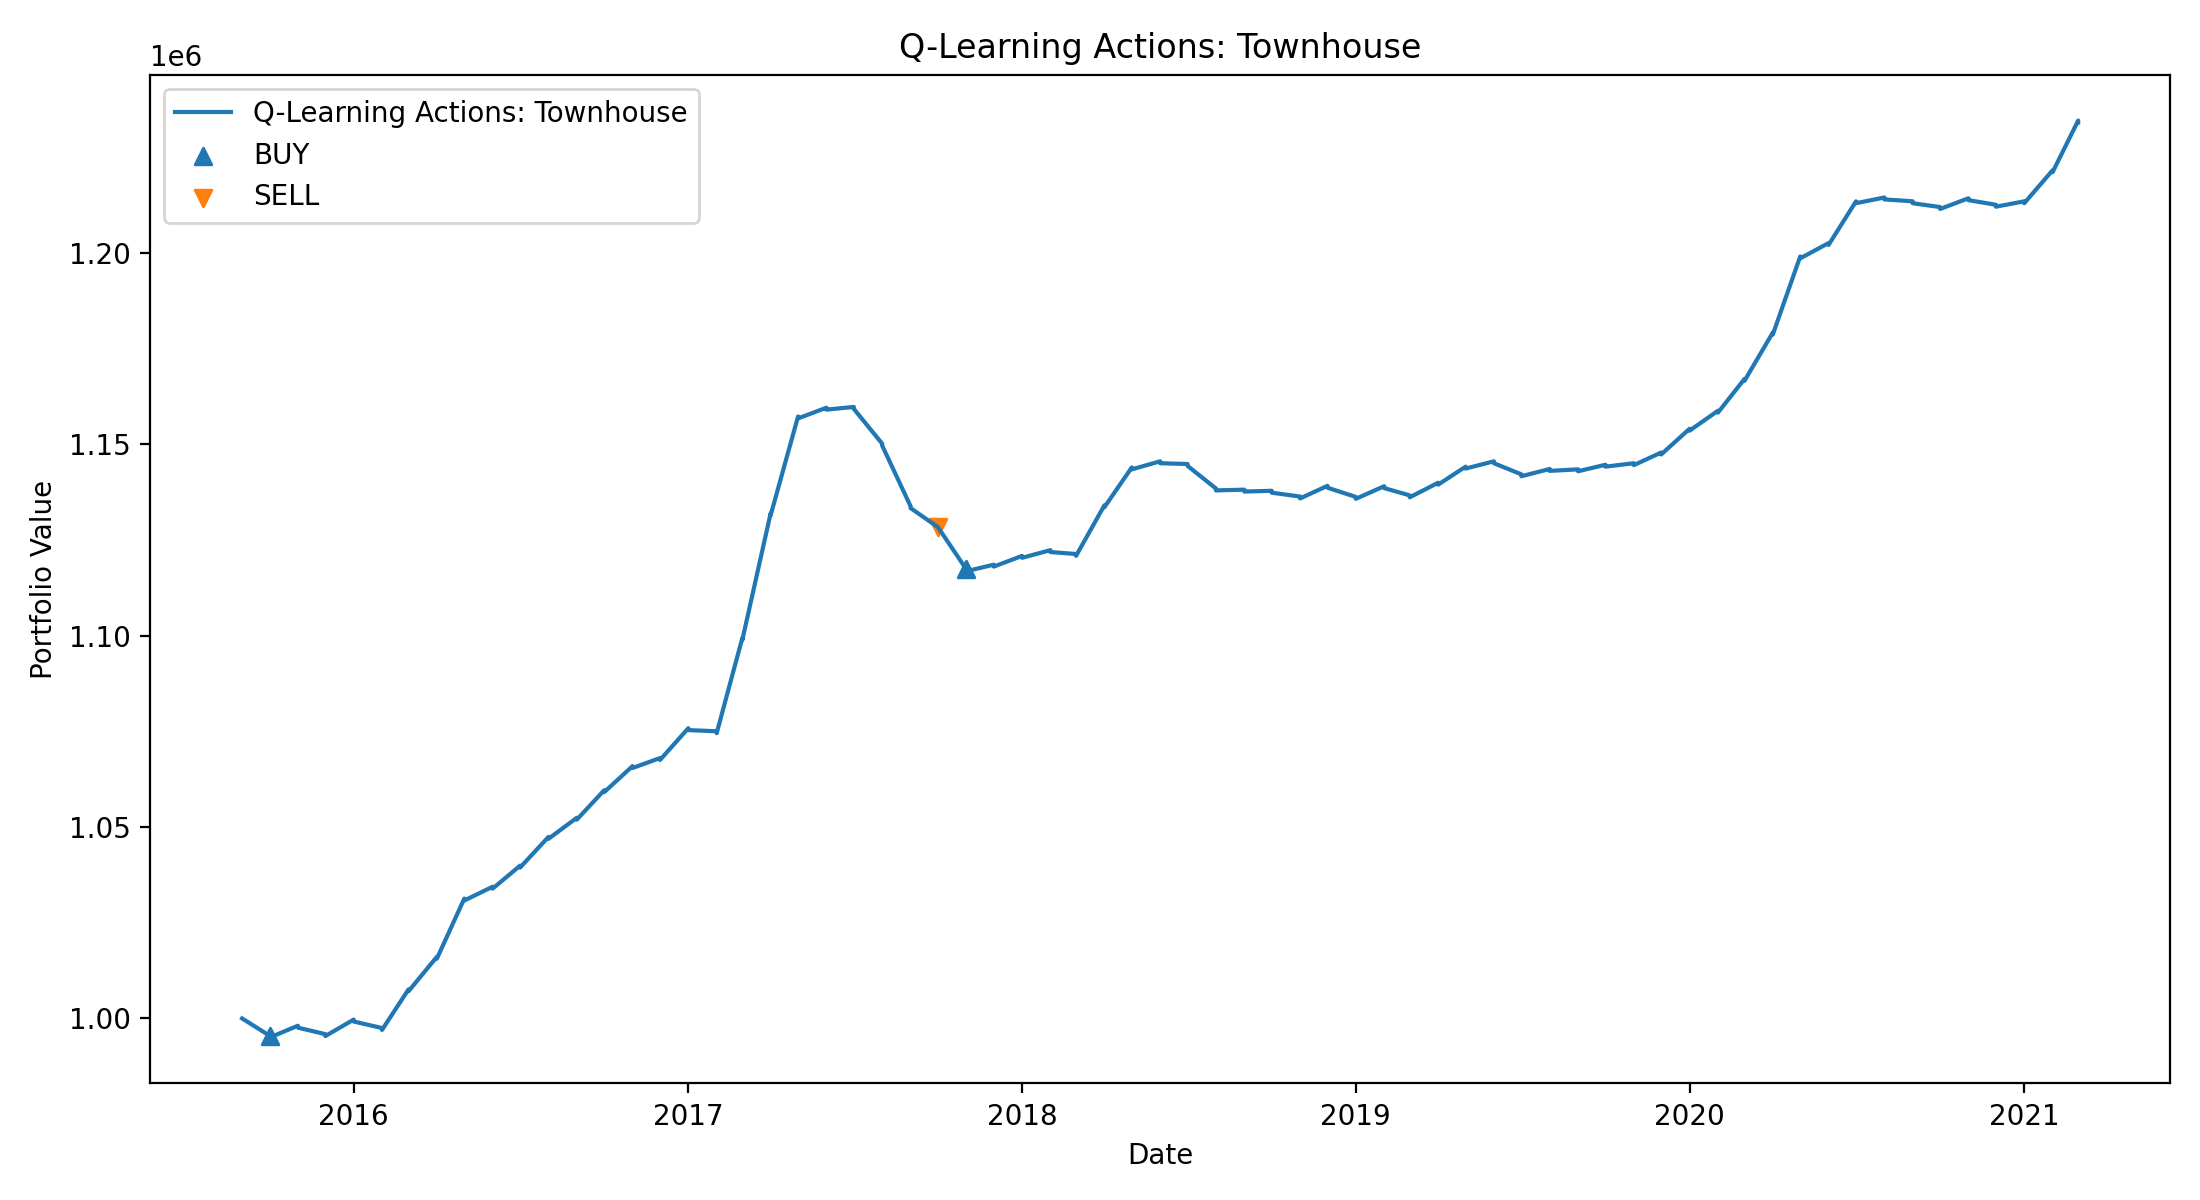
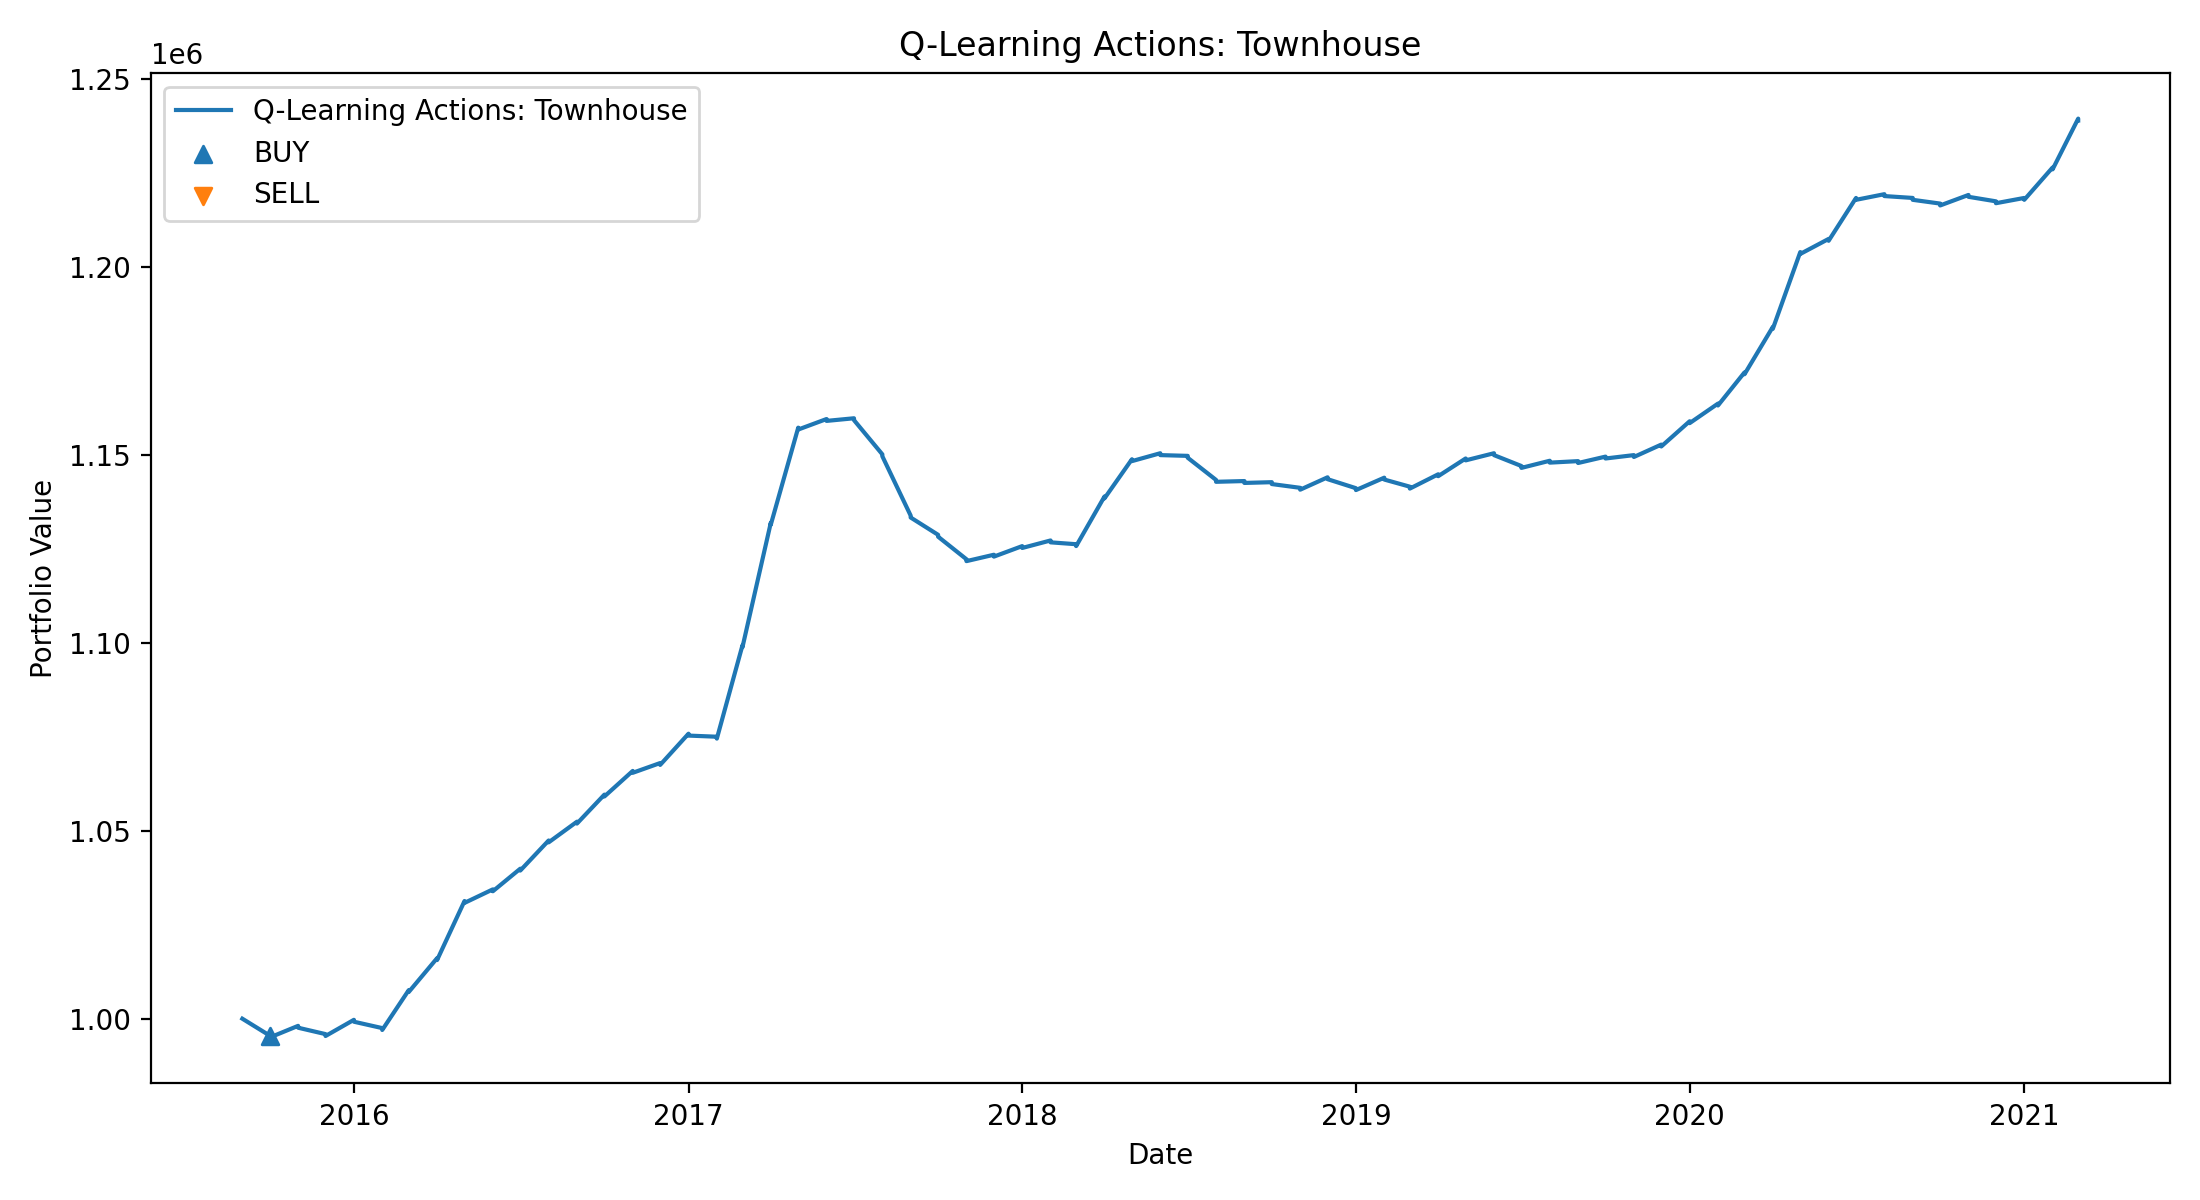
final copy

diff --git a/HouseRL.py b/HouseRL.py
@@ -29,6 +29,7 @@ PRICE_COL = "BenchmarkPrice"
 INITIAL_CASH = 1_000_000
 TRANSACTION_COST = 5_000
 HOLDING_COST_MONTHLY = 500
+INVALID_ACTION_PENALTY = 1.0
 
 # Q-learning
 EPISODES = 300
@@ -147,6 +148,26 @@ class HousingEnv:
         self.done = False
         return self._get_state()
 
+    def _current_price(self) -> float:
+        return float(self.df.iloc[self.idx][PRICE_COL])
+
+    def _portfolio_value(self, price: float) -> float:
+        return float(self.cash + (self.holding * price))
+
+    def _can_buy(self) -> bool:
+        return self.holding == 0 and self.cash >= self._current_price() + TRANSACTION_COST
+
+    def _can_sell(self) -> bool:
+        return self.holding == 1
+
+    def valid_actions(self):
+        actions = [2]  # HOLD is always legal
+        if self._can_buy():
+            actions.append(0)
+        if self._can_sell():
+            actions.append(1)
+        return actions
+
     def _get_state(self):
         row = self.df.iloc[self.idx]
         return (
@@ -154,13 +175,9 @@ class HousingEnv:
             bucket_momentum(float(row["momentum_3"])),
             bucket_momentum(float(row["momentum_6"])),
             self.holding,
+            int(self._can_buy()),
+            int(self._can_sell()),
         )
-
-    def _current_price(self) -> float:
-        return float(self.df.iloc[self.idx][PRICE_COL])
-
-    def _portfolio_value(self, price: float) -> float:
-        return float(self.cash + (self.holding * price))
 
     def step(self, action: int):
         if self.done:
@@ -171,20 +188,20 @@ class HousingEnv:
         invalid_penalty = 0.0
 
         if action == 0:  # BUY
-            if self.holding == 0 and self.cash >= current_price + TRANSACTION_COST:
+            if self._can_buy():
                 self.cash -= (current_price + TRANSACTION_COST)
                 self.holding = 1
                 self.buy_price = current_price
             else:
-                invalid_penalty = -0.2  # ← was -2000.0
+                invalid_penalty = -INVALID_ACTION_PENALTY
 
         elif action == 1:  # SELL
-            if self.holding == 1:
+            if self._can_sell():
                 self.cash += (current_price - TRANSACTION_COST)
                 self.holding = 0
                 self.buy_price = 0.0
             else:
-                invalid_penalty = -0.2  # ← was -2000.0
+                invalid_penalty = -INVALID_ACTION_PENALTY
 
         elif action == 2:  # HOLD
             pass
@@ -202,6 +219,7 @@ class HousingEnv:
         reward = 100.0 * ((new_value - old_value) / max(old_value, 1.0)) + invalid_penalty
         next_state = self._get_state()
         return next_state, reward, self.done
+
 # ============================================================
 # Q-LEARNING AGENT
 # ============================================================
@@ -210,14 +228,28 @@ class QLearningAgent:
     def __init__(self):
         self.q_table = defaultdict(lambda: np.zeros(len(ACTIONS), dtype=np.float64))
 
-    def choose_action(self, state, epsilon: float) -> int:
+    def choose_action(self, state, epsilon: float, valid_actions):
         if random.random() < epsilon:
-            return random.choice(list(ACTIONS.keys()))
-        return int(np.argmax(self.q_table[state]))
+            return random.choice(valid_actions)
 
-    def update(self, state, action: int, reward: float, next_state):
-        best_next = np.max(self.q_table[next_state])
-        td_target = reward + GAMMA * best_next
+        q_values = self.q_table[state]
+        best_action = valid_actions[0]
+        best_value = q_values[best_action]
+
+        for action in valid_actions[1:]:
+            if q_values[action] > best_value:
+                best_value = q_values[action]
+                best_action = action
+
+        return int(best_action)
+
+    def update(self, state, action: int, reward: float, next_state, next_valid_actions, done: bool):
+        if done:
+            td_target = reward
+        else:
+            best_next = max(self.q_table[next_state][a] for a in next_valid_actions)
+            td_target = reward + GAMMA * best_next
+
         td_error = td_target - self.q_table[state][action]
         self.q_table[state][action] += ALPHA * td_error
 
@@ -234,9 +266,14 @@ def train_q_learning(df: pd.DataFrame, selected_area: str, selected_type: str):
         total_reward = 0.0
 
         while not done:
-            action = agent.choose_action(state, epsilon)
+            valid_actions = env.valid_actions()
+            action = agent.choose_action(state, epsilon, valid_actions)
+
             next_state, reward, done = env.step(action)
-            agent.update(state, action, reward, next_state)
+            next_valid_actions = env.valid_actions() if not done else [2]
+
+            agent.update(state, action, reward, next_state, next_valid_actions, done)
+
             state = next_state
             total_reward += reward
 
@@ -257,7 +294,8 @@ def evaluate_q_learning(agent: QLearningAgent, df: pd.DataFrame, selected_area: 
 
     done = False
     while not done:
-        action = int(np.argmax(agent.q_table[state]))
+        valid_actions = env.valid_actions()
+        action = agent.choose_action(state, epsilon=0.0, valid_actions=valid_actions)
         action_name = ACTIONS[action]
 
         action_counts[action_name] += 1
@@ -269,7 +307,6 @@ def evaluate_q_learning(agent: QLearningAgent, df: pd.DataFrame, selected_area: 
         values.append(env._portfolio_value(env._current_price()))
         actions.append(action_name)
 
-    # Convert to %
     total = sum(action_counts.values())
     action_percent = {k: (v / total) * 100 for k, v in action_counts.items()}
 
@@ -374,7 +411,7 @@ class HousingGymEnv(gym.Env):
                 self.holding = 1
                 self.buy_price = current_price
             else:
-                invalid_penalty = -0.2
+                invalid_penalty = -INVALID_ACTION_PENALTY
 
         elif action == 1:  # SELL
             if self._can_sell():
@@ -382,7 +419,7 @@ class HousingGymEnv(gym.Env):
                 self.holding = 0
                 self.buy_price = 0.0
             else:
-                invalid_penalty = -0.2
+                invalid_penalty = -INVALID_ACTION_PENALTY
 
         elif action == 2:  # HOLD
             pass
@@ -488,7 +525,6 @@ def evaluate_policy_model(model, vec_norm: VecNormalize, df: pd.DataFrame, selec
         values.append(raw_env._portfolio_value(raw_env._current_price()))
         actions.append(action_name)
 
-    # Convert to %
     total = sum(action_counts.values())
     action_percent = {k: (v / total) * 100 for k, v in action_counts.items()}
 
@@ -571,14 +607,11 @@ def plot_final_comparison(
 def plot_with_actions(df: pd.DataFrame, title: str, filename: str):
     plt.figure(figsize=(11, 6))
 
-    # Line plot
     plt.plot(df["Date"], df["PortfolioValue"], label=title)
 
-    # Filter actions
     buy_points = df[df["Action"] == "BUY"]
     sell_points = df[df["Action"] == "SELL"]
 
-    # Scatter markers
     plt.scatter(buy_points["Date"], buy_points["PortfolioValue"], marker="^", label="BUY")
     plt.scatter(sell_points["Date"], sell_points["PortfolioValue"], marker="v", label="SELL")
 
@@ -594,7 +627,6 @@ def plot_with_actions(df: pd.DataFrame, title: str, filename: str):
 def plot_action_distribution(df: pd.DataFrame, title: str, filename: str):
     action_counts = df["Action"].value_counts()
 
-    # Remove START if present
     if "START" in action_counts:
         action_counts = action_counts.drop("START")
 
@@ -612,7 +644,6 @@ def plot_action_distribution(df: pd.DataFrame, title: str, filename: str):
     plt.savefig(filename, dpi=200)
     plt.show()
 
-
 if __name__ == "__main__":
     df = load_data(CSV_PATH)
 
@@ -624,35 +655,27 @@ if __name__ == "__main__":
         q_agent, q_rewards = train_q_learning(df, area, property_type)
 
         print(f"=== Training PPO for {property_type} in {area} ===")
-        #ppo_model, ppo_vec_norm = train_ppo(df, area, property_type)
+        # ppo_model, ppo_vec_norm = train_ppo(df, area, property_type)
 
         print(f"=== Training A2C for {property_type} in {area} ===")
-        #a2c_model, a2c_vec_norm = train_a2c(df, area, property_type)
+        # a2c_model, a2c_vec_norm = train_a2c(df, area, property_type)
 
         print(f"=== Evaluating models for {property_type} in {area} ===")
         q_eval = evaluate_q_learning(q_agent, df, area, property_type)
-        #ppo_eval = evaluate_policy_model(ppo_model, ppo_vec_norm, df, area, property_type, "PPO")
-        #a2c_eval = evaluate_policy_model(a2c_model, a2c_vec_norm, df, area, property_type, "A2C")
-        #bh_eval = evaluate_buy_and_hold(df, area, property_type)
+        # ppo_eval = evaluate_policy_model(ppo_model, ppo_vec_norm, df, area, property_type, "PPO")
+        # a2c_eval = evaluate_policy_model(a2c_model, a2c_vec_norm, df, area, property_type, "A2C")
+        # bh_eval = evaluate_buy_and_hold(df, area, property_type)
 
         print("\nFinal portfolio values:")
         print(f"Q-Learning:   ${q_eval['PortfolioValue'].iloc[-1]:,.2f}")
-        #print(f"PPO:          ${ppo_eval['PortfolioValue'].iloc[-1]:,.2f}")
-        #print(f"A2C:          ${a2c_eval['PortfolioValue'].iloc[-1]:,.2f}")
-        #print(f"Buy-and-Hold: ${bh_eval['PortfolioValue'].iloc[-1]:,.2f}")
+        # print(f"PPO:          ${ppo_eval['PortfolioValue'].iloc[-1]:,.2f}")
+        # print(f"A2C:          ${a2c_eval['PortfolioValue'].iloc[-1]:,.2f}")
+        # print(f"Buy-and-Hold: ${bh_eval['PortfolioValue'].iloc[-1]:,.2f}")
 
-        # =========================
-        # PLOT PORTFOLIO COMPARISON
-        # =========================
-        #plot_final_comparison(q_eval, ppo_eval, a2c_eval, bh_eval, area, property_type)
-
-        # =========================
-        # ACTION VISUALIZATIONS
-        # =========================
         plot_with_actions(q_eval, f"Q-Learning Actions: {property_type}", f"q_actions_{property_type}.png")
-        #plot_with_actions(ppo_eval, f"PPO Actions: {property_type}", f"ppo_actions_{property_type}.png")
-        #plot_with_actions(a2c_eval, f"A2C Actions: {property_type}", f"a2c_actions_{property_type}.png")
-
         plot_action_distribution(q_eval, f"Q-Learning ({property_type})", f"q_dist_{property_type}.png")
-        #plot_action_distribution(ppo_eval, f"PPO ({property_type})", f"ppo_dist_{property_type}.png")
-        #plot_action_distribution(a2c_eval, f"A2C ({property_type})", f"a2c_dist_{property_type}.png")
+
+        # plot_with_actions(ppo_eval, f"PPO Actions: {property_type}", f"ppo_actions_{property_type}.png")
+        # plot_with_actions(a2c_eval, f"A2C Actions: {property_type}", f"a2c_actions_{property_type}.png")
+        # plot_action_distribution(ppo_eval, f"PPO ({property_type})", f"ppo_dist_{property_type}.png")
+        # plot_action_distribution(a2c_eval, f"A2C ({property_type})", f"a2c_dist_{property_type}.png")
